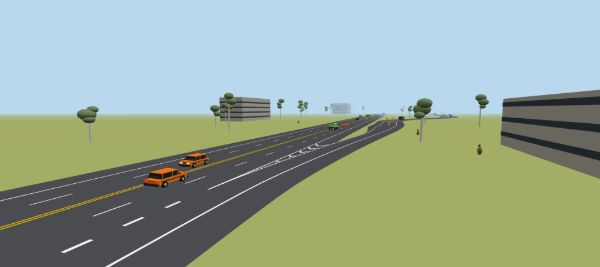
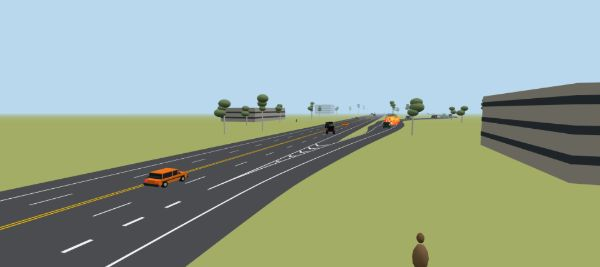
Back Roads keeps the Canberra look without Canberra's landmarks (a level field: sights)
A new level field, sights (default on): false leaves out a theme's own landmarks, here
Canberra's lake and jet under the bridges, Black Mountain tower and Parliament House. Back
Roads sets it; its menu pictures retaken. CHECKLIST 70.

Claude-Session: https://claude.ai/code/session_01QcjpkNELmj7W3GRKyipQrt

diff --git a/src/delivery/render/road.js b/src/delivery/render/road.js
@@ -2306,7 +2306,8 @@ const buildRoad = () => {
         leaves.push([at + Math.random() * 2 - 1, lat + Math.random() * 2 - 1, h * (0.7 + k * 0.15), size, size * 0.7, size]);
       }
     };
-    const nearLake = (s) => (LEVEL.bridges || []).some(b => s > b.from - 40 && s < b.to + 40);
+    const sights = LEVEL.sights !== false; // (the lake, the jet, Black Mountain, Parliament House: off on a level that borrows the look, Back Roads)
+    const nearLake = (s) => sights && (LEVEL.bridges || []).some(b => s > b.from - 40 && s < b.to + 40);
     // (clear of every other road, an exit's or a side road's, by `margin` m: on a level with exits, Back Roads say)
     const clearAt = (s, lat, margin) => { Track.toWorld(s, lat, tmp); return offRoads(tmp.x, tmp.z, margin); };
     for (let s = Track.start; s < Track.end; s += 14) {
@@ -2337,7 +2338,7 @@ const buildRoad = () => {
     instances(new THREE.SphereGeometry(0.5, 8, 6), 0x8a6a4a, roos);
     instances(new THREE.SphereGeometry(0.5, 8, 6), 0x7a5c3e, heads);
     // the lake under each bridge, out to either side, and the jet (a plume of spray) on the left
-    for (const b of LEVEL.bridges || []) {
+    for (const b of sights ? LEVEL.bridges || [] : []) {
       for (const side of [-1, 1]) {
         const lake = new THREE.Mesh(sideStrip(b.from - 20, b.to + 20, (q) => beside(side, q, 2), (q) => beside(side, q, 500), -0.02, 8),
           new THREE.MeshBasicMaterial({ color: 0x4f86a8, side: THREE.DoubleSide, depthWrite: false }));
@@ -2351,7 +2352,7 @@ const buildRoad = () => {
       levelGroup.add(jet);
     }
     // Black Mountain, with Telstra Tower on top: a third of the way along, off to the left
-    {
+    if (sights) {
       const at = Track.length / 3;
       Track.toWorld(at, beside(-1, at, 380), tmp);
       const hill = new THREE.Mesh(new THREE.ConeGeometry(160, 70, 16), new THREE.MeshLambertMaterial({ color: 0x5f7448 }));
@@ -2367,7 +2368,7 @@ const buildRoad = () => {
     }
     // Parliament House, just past the end of the road: a long low front, and the flag mast on its
     // four legs over the middle, flying the flag
-    {
+    if (sights) {
       const at = Track.end + 140, h = Track.toWorld(at, 0, tmp);
       const house = new THREE.Group();
       const white = new THREE.MeshLambertMaterial({ color: 0xece8de });

diff --git a/src/delivery/levelSchema.js b/src/delivery/levelSchema.js
@@ -359,6 +359,7 @@ export const FIELDS = {
   // ---- scenery and sights ----
   parkedPlanes: { shape: 'point', group: 'scenery', label: 'Parked airliner', help: 'An airliner parked off the road on the left, turned a little.',
     settings: { d: num('Off the road (m)', { min: 0, max: 1000, required: true, init: 60 }), turn: num('Turned (rad)', { min: -7, max: 7, step: 0.05, init: 0 }) } },
+  sights: { shape: 'flag', group: 'scenery', label: 'Theme sights', default: true, help: 'Off: the theme\'s own landmarks are not drawn on this level (Canberra\'s lake and jet under the bridges, Black Mountain tower, Parliament House), only its everyday scenery.' },
   landmarks: { shape: 'world', group: 'scenery', label: 'Landmark', sub: 'kind', help: 'A landmark where it really is, in the world; r m round it is kept clear of the town. (A circuit\'s lakes and streams are drawn from "paths".)',
     settings: { kind: pick('Kind', LANDMARK_KINDS, { required: true, init: 'flyer' }), x: num('x (m)', { min: -1e5, max: 1e5 }), z: num('z (m)', { min: -1e5, max: 1e5 }),
       s: { type: 'metres', label: 'Or beside the road at (m)' }, off: num('...that far off it (m)', { min: -5000, max: 5000 }),

diff --git a/src/delivery/levels.js b/src/delivery/levels.js
@@ -95,6 +95,8 @@
 //   understeer true = every car understeers in bends as on ice (and none slows for a bend by itself)
 //   wallDamage true = a car going sideways into the road's edge takes damage (see CONFIG.race)
 //   nudge      true = a car steering into another's side knocks it aside
+//   sights     false = the theme's own landmarks are left out (Canberra's lake and jet, Black Mountain, Parliament
+//              House): a level borrowing the look keeps only its everyday scenery (Back Roads)
 //   landmarks  { kind, x, z, r, rot }: landmarks where they really are, in the world (Singapore's look:
 //              'bay', 'flyer', 'mbs', 'esplanade', 'fullerton', 'merlion', 'padang', 'gardens',
 //              'artscience', 'helix' (r: half its length), 'float', 'cbd', 'suntec', 'gallery', 'domes'); r m

diff --git a/CHECKLIST.md b/CHECKLIST.md
@@ -65,7 +65,7 @@ Working list, from the owner's ideas of 2026-10-09. `[x]` done, `[~]` partly don
 - [x] 67. The car fixes from `WIP/delivery-carfix.patch` (CHECKLIST-11-Oct Q16 and Q8): the learner driver's L plates read the right way round front and back and are bigger (0.5 m), it wobbles wider and cruises at the level's full pace (was 0.6 of it); kangaroos 1.5 times the size and a brighter orange-brown. (The Junker's shorter blurb was already on main.) Checked: traffic-quirks, words, obstacles, modelviews checks; the learner car seen close up front and back and a kangaroo beside it. Not seen on a road in a run; the cruise pace not measured. From behind, the plate covers part of the left tail light.
 - [x] 68. The garage looks ahead (from `WIP/delivery-garagetiers.patch`, CHECKLIST-11-Oct L5/L7; its level 4 and back button were on main already): the open tiers' cars as ever, the next tier's as flat black silhouettes with their stars ("Locked car", what opens the tier, no buy, no Use, no comparison), the tiers beyond not there; an owned car, an amphibious or earned car always shown; the tiers off, the old Blue Star rule. On a phone the car's figures are on a line of their own under its name (the dash between them dropped there), its perk shown when the line is tapped. Redone by hand against today's code (`cars.js`, `tiers.js` preview hook, `render/garage.js`, `render/garageview.js`, `menus.css`); its checks in `.tiers-check`. Seen in a browser for the first time: a new save's garage at 1280x800, 390x700 and 360x640 (tier 2 black, tier 3 on not there, Love Bus "Locked car ★★ - Earn a medal on Hurricane to open this tier"), and the Junker's card on a phone. The car-ideas check fails as before (the same 13).
 - [x] 69. The odds and ends of `WIP/delivery-prank-ideas.patch` (applied whole): Evil liveries for the four Blue Stars and the five amphibious cars, darker than their Good ones but each a colour (blued steel, aubergine, blood red, deep teal... not black); the Hell Rod, Courier Special and Showdown Muscle drawn as their garage car's Super version (the body kit and stripe, in the garage and in play); the Saucer hovering and its lights turning in the garage; the volcano's floor (a grey ash verge, black sand a shade lighter than the ground out to 40 m, pumice stones: boulders and palms no longer hang in nothing) and the volcano fading into a fog bank or a tunnel's dark; plus the prank cargo ideas draft (`src/delivery/IDEAS-prank-cargo-12-Oct.md`). Seen: the garage on Evil with those cars owned and the earned ones earned (liveries, the Hell Rod's kit, the Saucer parked); Cinder Island and Eruption Day before and after (the floor). NOT seen: the Saucer moving (stills only), the volcano fading into fog, the Super kits in a run. Checks: the tiers, cars, cargo, render and replay groups pass; the car-ideas check and the quick smoke fail as before.
-- [x] 70. Back Roads re-themed with the Canberra theme (the owner: reuse it, it was used once; no new art): dry grass, gum trees, concrete blocks, kangaroos in place of the default city look Expressway has. The Canberra scenery now keeps its trees, kangaroos and blocks off every road but the main one (`offRoads`: it never checked, and the Canberra level has no exit; Back Roads has one). Menu pictures retaken (`scripts/shots.mjs --levels=back-roads --write`, which now passes `--no-sandbox` when run as root on Linux, so a cloud agent can take them). NOT decided: the new name (the owner said it can be renamed); and the Canberra landmarks come with the theme wherever a level has bridges or a finish (the lake and its jet under the bridges, Black Mountain tower, Parliament House past the finish): on Back Roads too, for the owner to keep or turn off there. Checked: the levels, smoke-levels (back-roads) and render groups; Back Roads seen in a run at 300, 1150 and 1300 m and its menu picture; the Canberra level still as it was.
+- [x] 70. Back Roads re-themed with the Canberra theme (the owner: reuse it, it was used once; no new art): dry grass, gum trees, concrete blocks, kangaroos in place of the default city look Expressway has. The Canberra scenery now keeps its trees, kangaroos and blocks off every road but the main one (`offRoads`: it never checked, and the Canberra level has no exit; Back Roads has one). Menu pictures retaken (`scripts/shots.mjs --levels=back-roads --write`, which now passes `--no-sandbox` when run as root on Linux, so a cloud agent can take them). NOT decided: the new name (the owner said it can be renamed); and the Canberra landmarks (the lake and its jet under the bridges, Black Mountain tower, Parliament House past the finish) are OFF on Back Roads, at the owner's word: a new level field `sights` (default on; `false` keeps only the everyday scenery), in the schema and levels.js; seen at its finish, no tower, no Parliament; menu pictures retaken again. Checked: the levels, smoke-levels (back-roads) and render groups; Back Roads seen in a run at 300, 1150 and 1300 m and its menu picture; the Canberra level still as it was.
 
 ## Technical
 
